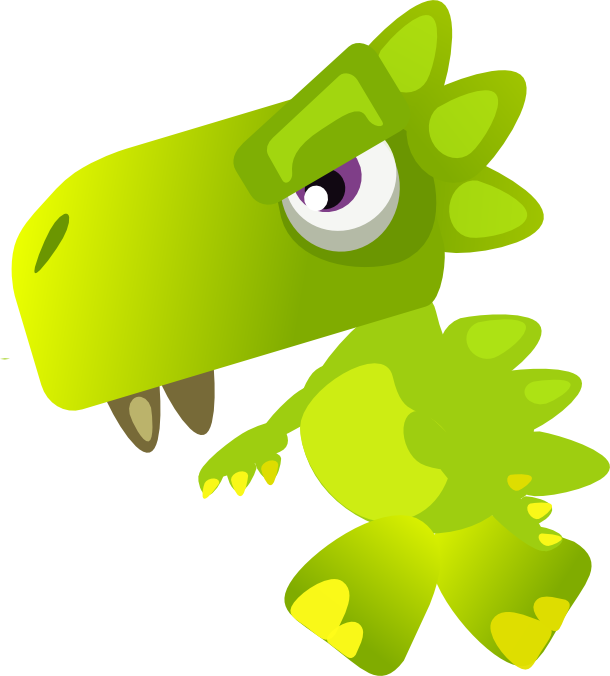
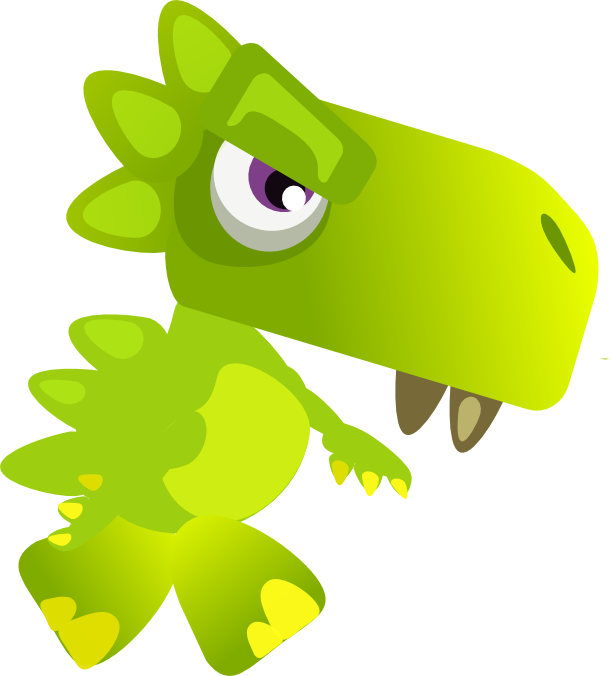
movement updated

diff --git a/object_oriented/main.py b/object_oriented/main.py
@@ -12,7 +12,8 @@ class App(cevent.CEvent):
         self._display_surf = None
         self._image_surf = None
         self.game = None
-       		
+        self.state = {'up': False, 'down': False, 'left': False, 'right': False}
+        
     def on_init(self):
         pygame.init()
         self._display_surf = pygame.display.set_mode((800,550), pygame.HWSURFACE)
@@ -21,7 +22,10 @@ class App(cevent.CEvent):
         self._image_surf = self.game.screen
     
     def on_loop(self):
-        pass
+        if self.state['right']:
+            self.game.dinosaur.moveright()
+        if self.state['left']:
+            self.game.dinosaur.moveleft()
     
     def on_render(self):
         if self.game:
@@ -36,26 +40,30 @@ class App(cevent.CEvent):
         pygame.quit()
     
     def on_key_down(self, event):
-		if event.key == pygame.K_RIGHT:
-			print "key right"
-			self.game.dinosaur.moveright()
-		if event.key == pygame.K_LEFT:
-			print "key left"
-			self.game.dinosaur.moveleft()
-		if event.key == pygame.K_UP:
-			self.game.dinosaur.moveup()
-		if event.key == pygame.K_DOWN:
-			self.game.dinosaur.movedown()
-		if event.key in (pygame.K_KP_MINUS, pygame.K_MINUS):
-			self.game.dinosaur.decrease_size()
-		if event.key in (pygame.K_KP_PLUS, pygame.K_PLUS):
-			self.game.dinosaur.increase_size()
-		#self.enemy.move()
-		
+        if event.key == pygame.K_RIGHT:
+            print "key right"
+            self.state['right'] = True
+        if event.key == pygame.K_LEFT:
+            self.state['left'] = True
+            print "key left"
+
+        if event.key == pygame.K_UP:
+            self.game.dinosaur.moveup()
+        if event.key == pygame.K_DOWN:
+            self.game.dinosaur.movedown()
+        if event.key in (pygame.K_KP_MINUS, pygame.K_MINUS):
+            self.game.dinosaur.decrease_size()
+        if event.key in (pygame.K_KP_PLUS, pygame.K_PLUS):
+            self.game.dinosaur.increase_size()
+#self.enemy.move()
+
+    def on_key_up(self, event):
+        if event.key == pygame.K_RIGHT:
+            self.state['right'] = False
     def on_execute(self):
         if self.on_init() == False:
             self._running = False
-		
+
         pygame.time.set_timer(pygame.USEREVENT, 100)
         self.register_listener(pygame.USEREVENT, self.game.dinosaur)
         while (self._running):
